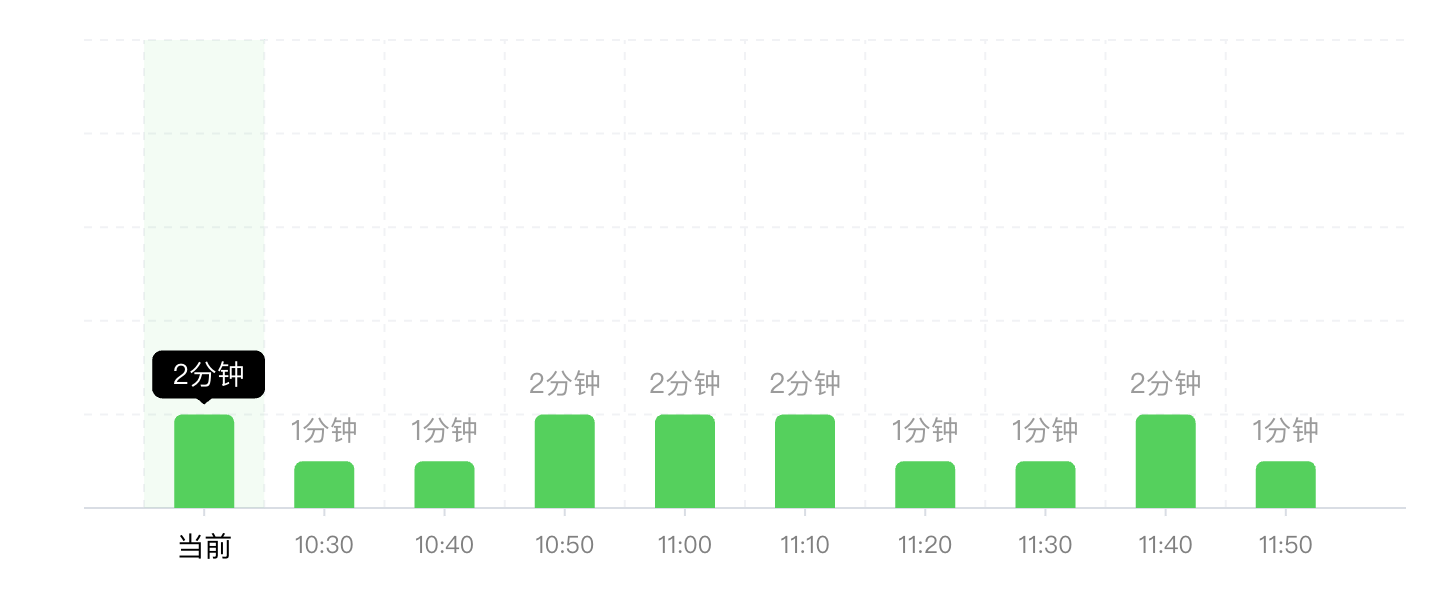
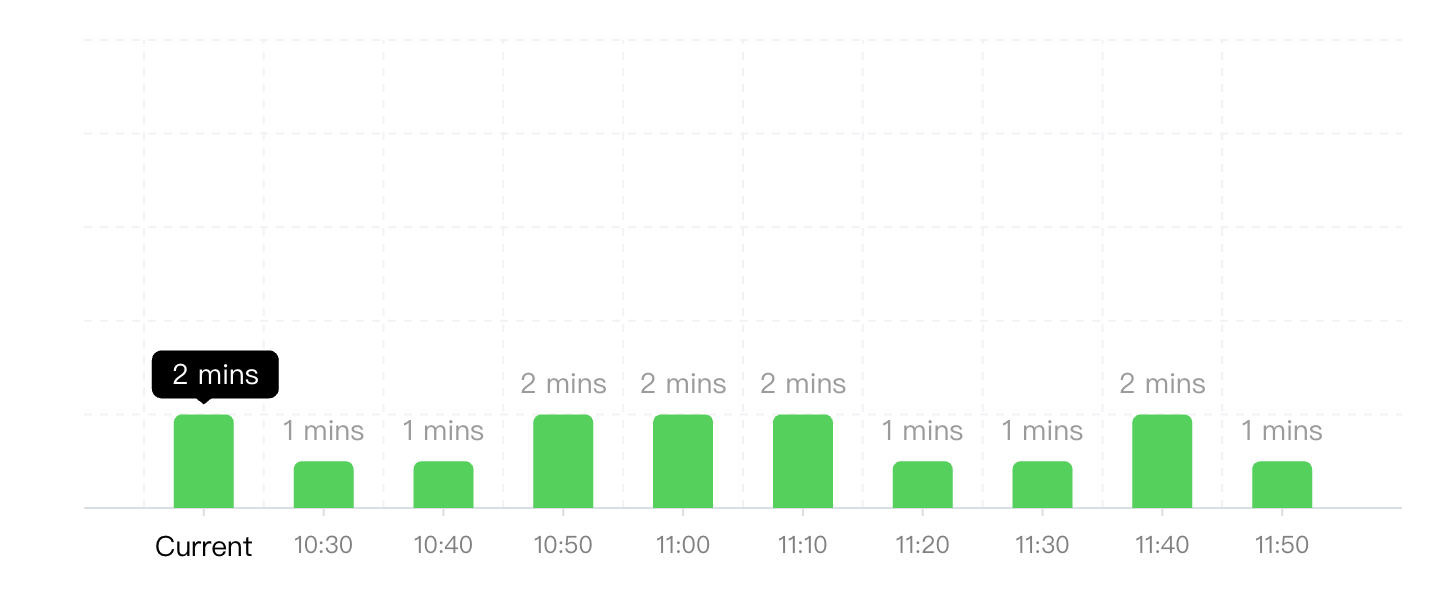
docs: update cover image

diff --git a/docs/assets/examples/zh/bar-chart/bar-markPoint.md b/docs/assets/examples/zh/bar-chart/bar-markPoint.md
@@ -2,8 +2,8 @@
 category: examples
 group: bar chart
 title: 柱状图标注
-keywords: barChart,markPoint
-cover: /vchart/preview/bar-background_1.6.0.png
+keywords: barChart,comparison,distribution,rectangle,markPoint
+cover: /vchart/preview/bar-markPoint_1.5.0.png
 option: barChart
 ---
 
